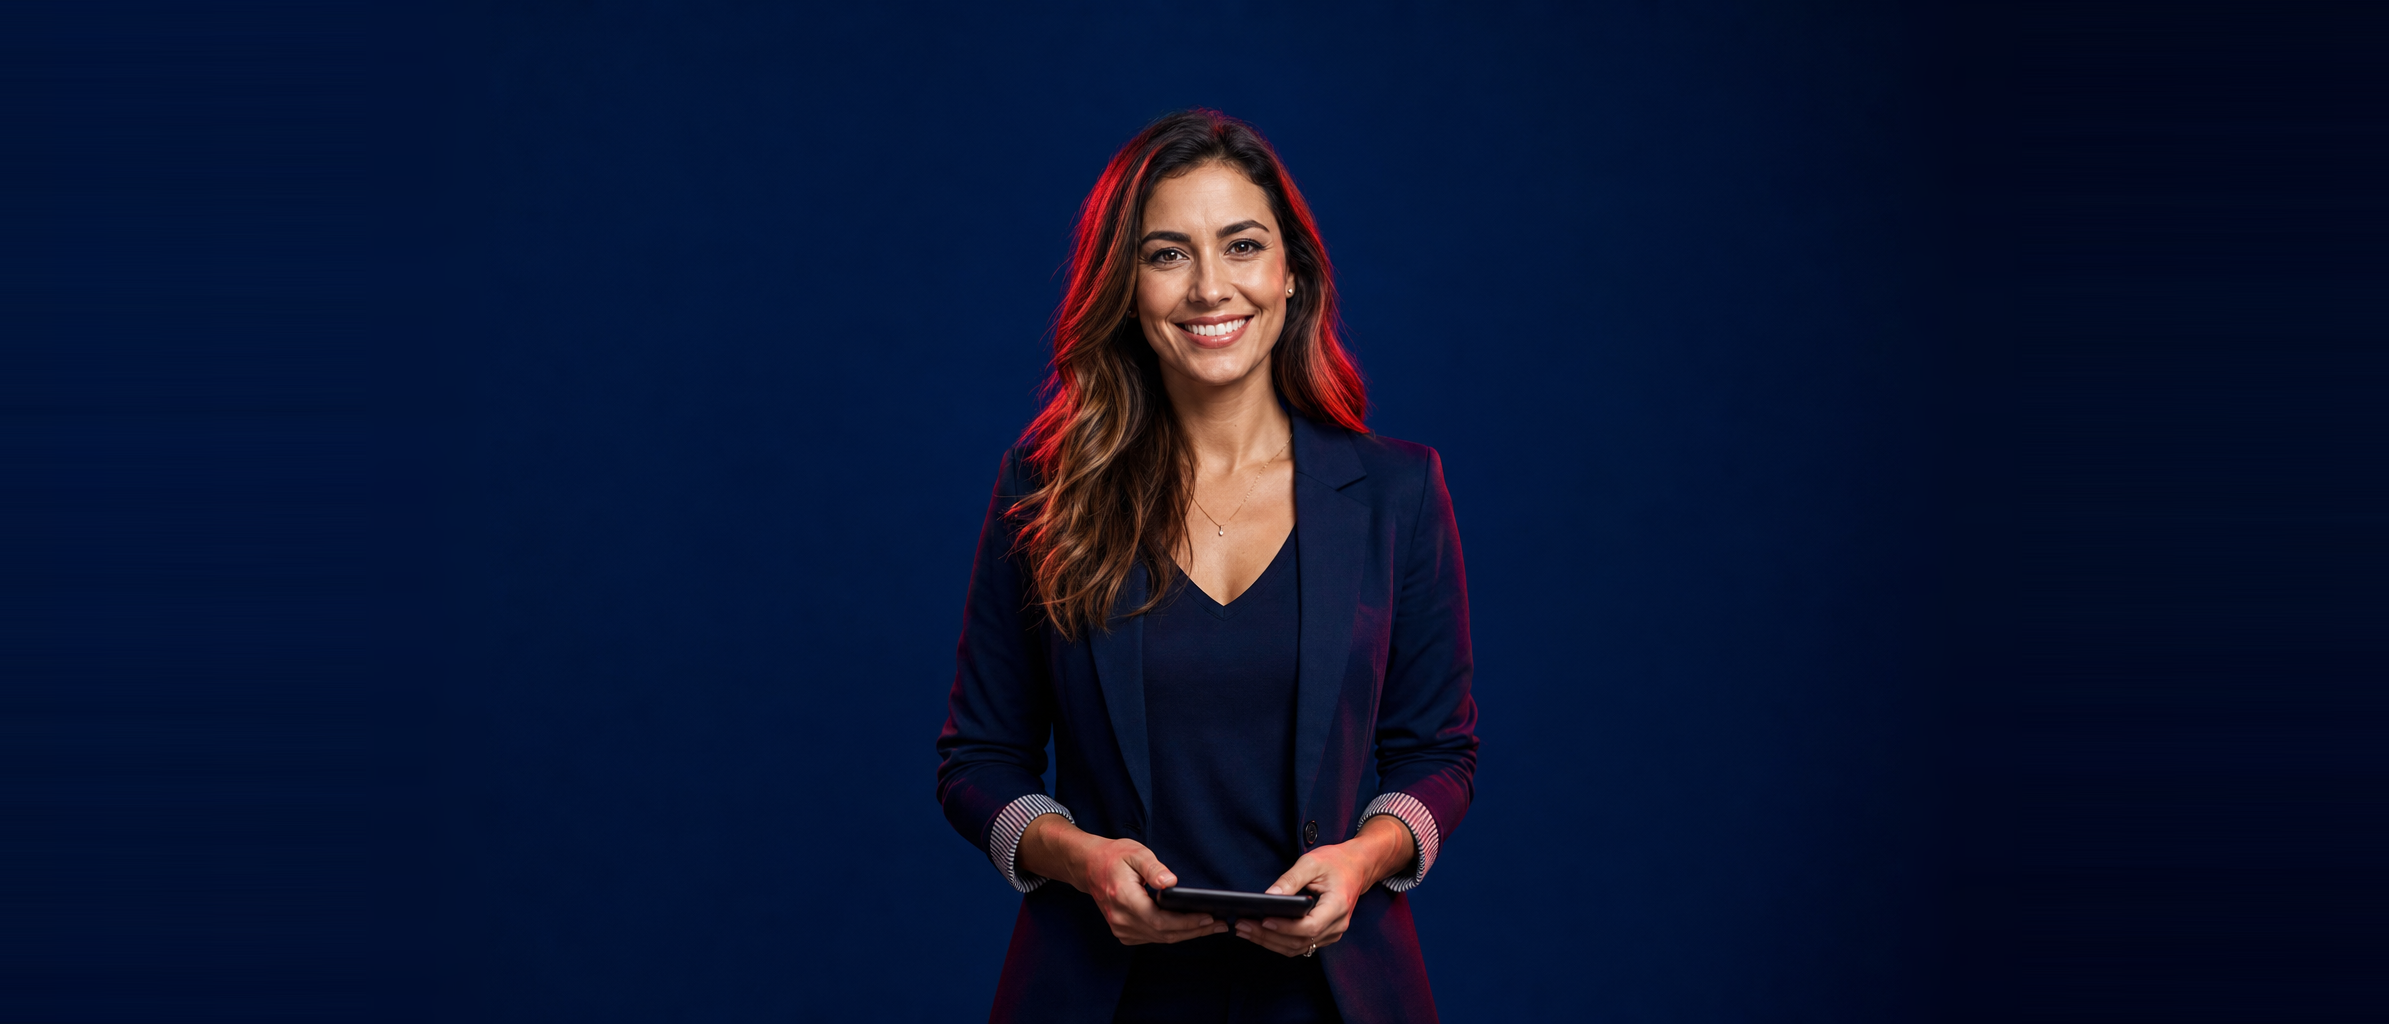
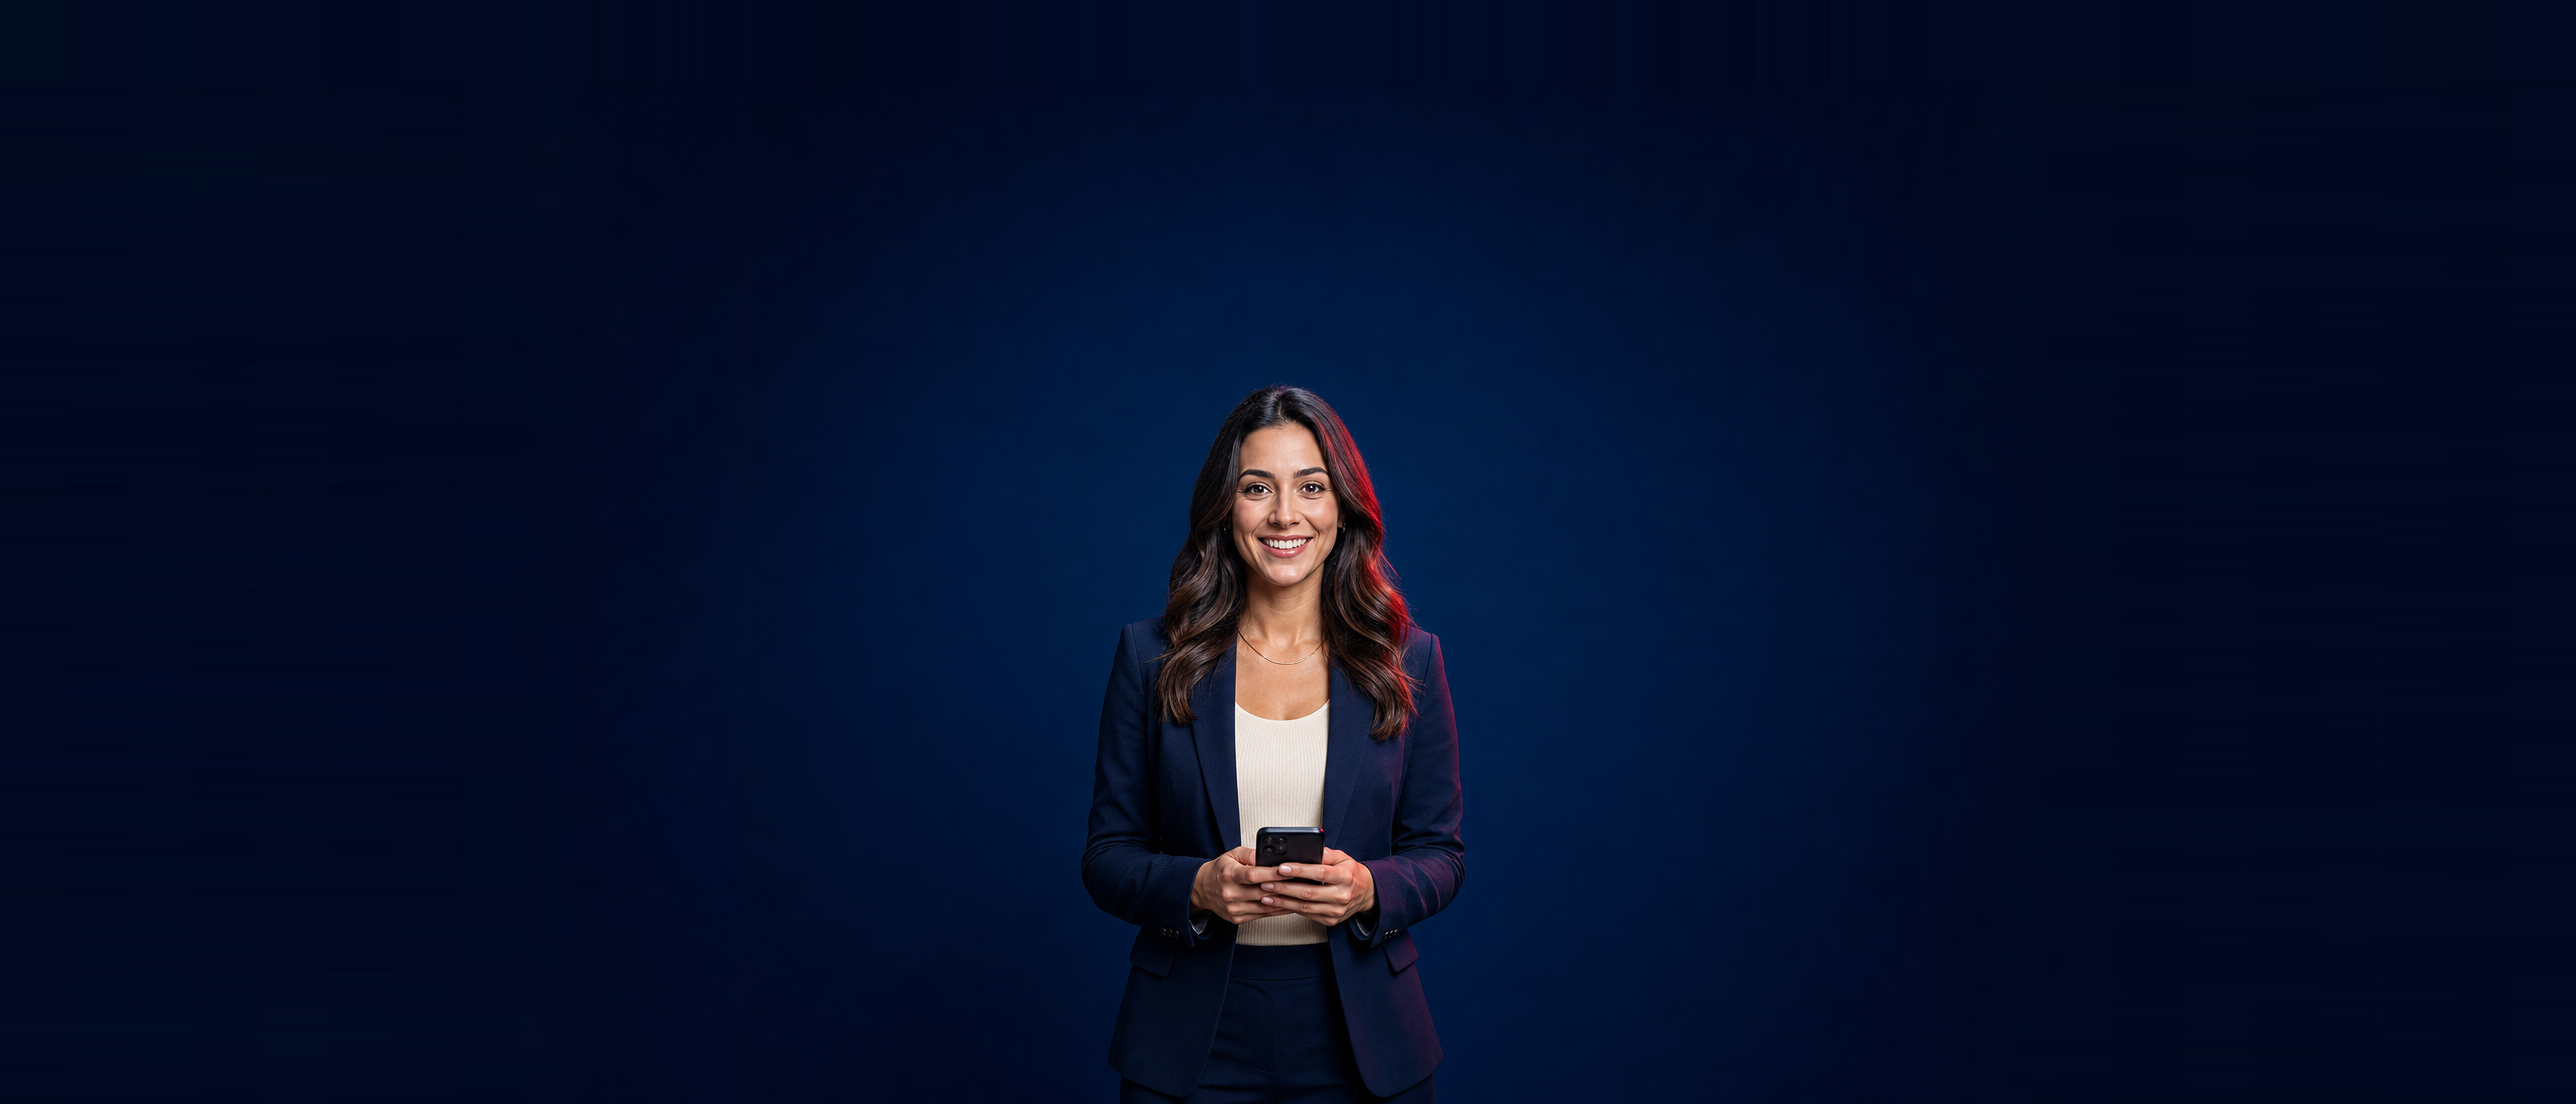
fix(hero): new gpt-image-2 hero — complementary wardrobe + head clears nav
Address two QA notes on the hero figure:
- all-navy outfit read as monochrome -> regenerate with gpt-image-2 (navy
  blazer over a cream top, warm-gold accent) so the wardrobe is complementary.
- top of her head sat behind the floating nav -> the new shot has generous
  headroom and the 21:9 extension adds extra navy on top, so object-cover
  lands her head ~28% down, well clear of the nav.

hero-gen.png is the 3:2 source; hero-woman-uw.png is the 21:9 ultrawide
(navy extended edge-to-edge, subject centered, nothing overlapping face/hands).

Changed region(s): [[0.0, 0.0, 0.6195, 1.0], [0.0, 0.0, 0.1239, 0.0938]]

diff --git a/src/components/site/marketing-hero.tsx b/src/components/site/marketing-hero.tsx
@@ -6,10 +6,11 @@ import { HeroSignupCard } from "@/components/site/hero-signup-card";
 // Centered hero figure (Hotmart-style): a wide photo of a woman on a navy
 // backdrop so it melts into the hero. Lives behind the copy + card and shows
 // through the clear center. Set to null to fall back to the navy gradient.
-//   hero-woman-uw.png  21:9 ultrawide — the 3:2 studio shot (hero-woman-1.png)
-//   with its navy background extended edge-to-edge so the subject sits centered
-//   with generous navy margins. object-cover then crops only the navy, never
-//   her face or hands, on any desktop ratio from 16:9 to 21:9.
+//   hero-woman-uw.png  21:9 ultrawide built from hero-gen.png (gpt-image-2:
+//   navy blazer + cream top, generous headroom, hands holding a phone). Its
+//   navy background is extended edge-to-edge so the subject sits centered with
+//   wide navy margins + top headroom; object-cover then crops only the navy —
+//   never her head or hands — and her head clears the floating nav.
 const HERO_PERSON_SRC: string | null = "/brand/hero/hero-woman-uw.png";
 
 export function MarketingHero() {
